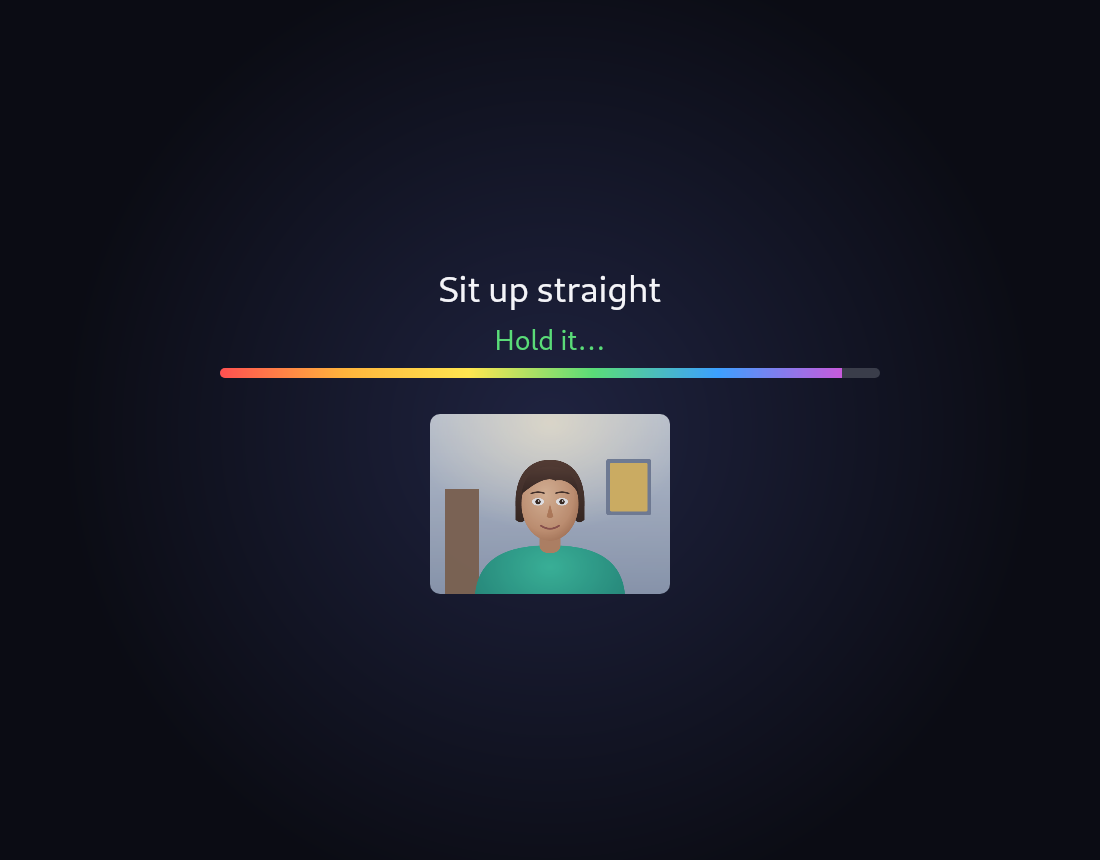
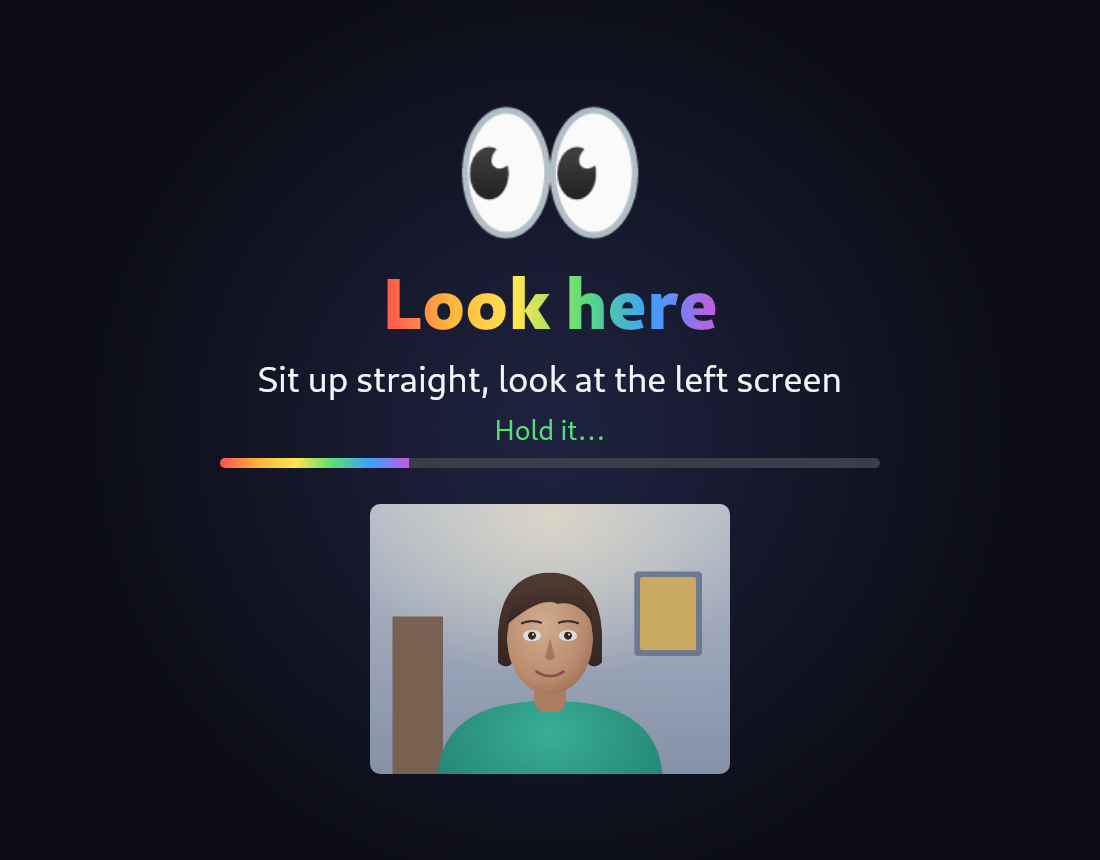
README shows the full-screen calibration game
- Calibration game section with a full-screen step pointing the drawn person at a screen
- Screenshots taken on two headless screens, so the game has a screen to point at
- Camera view in the game enlarged, and --game no longer opens the camera window

Changed region(s): [[0.1855, 0.1209, 0.8036, 0.907]]

diff --git a/crates/slouch-app/src/style.css b/crates/slouch-app/src/style.css
@@ -139,7 +139,7 @@ html, body {
 .look-detail { font-size: 28px; color: var(--good); }
 .look-progress { width: min(60vw, 720px); height: 10px; border-radius: 5px; background: #3a3d4a; overflow: hidden; }
 /* Small enough to check you're in frame without becoming the thing you look at. */
-.look-camera { position: relative; width: 240px; aspect-ratio: 4 / 3; margin-top: 24px; border-radius: 10px; overflow: hidden; opacity: 0.85; }
+.look-camera { position: relative; width: 360px; aspect-ratio: 4 / 3; margin-top: 24px; border-radius: 10px; overflow: hidden; opacity: 0.85; }
 .look-camera canvas { position: absolute; inset: 0; width: 100%; height: 100%; }
 
 .settings { padding: 20px 24px; display: flex; flex-direction: column; gap: 18px; overflow-y: auto; height: 100vh; box-sizing: border-box; }

diff --git a/crates/slouch-app/src/main.rs b/crates/slouch-app/src/main.rs
@@ -87,7 +87,7 @@ fn main() {
 
     let window = WindowBuilder::new()
         .with_title(APP_NAME)
-        .with_visible(args.show || args.game)
+        .with_visible(args.show)
         .with_inner_size(dioxus::desktop::LogicalSize::new(680.0, 600.0));
     let desktop = Config::new()
         .with_window(window)

diff --git a/README.md b/README.md
@@ -7,13 +7,9 @@ It finds your face, notes where your eyes sit and how big your face looks when y
 well, then nags when your eyes sink or your face grows as you lean towards the screen.
 Everything runs on your computer; no frame leaves it.
 
-| Sitting well | Slouching |
-|---|---|
-| ![Upright posture with the eye line on the baseline](docs/screenshots/good-posture.png) | ![Head sunk below the slouch line](docs/screenshots/slouching.png) |
-
-| Leaning in | Calibration game |
-|---|---|
-| ![Leaning towards the screen, with the nag notification](docs/screenshots/leaning.png) | ![A full-screen calibration step](docs/screenshots/calibration-game.png) |
+| Sitting well | Slouching | Leaning in |
+|---|---|---|
+| ![Upright posture with the eye line on the baseline](docs/screenshots/good-posture.png) | ![Head sunk below the slouch line](docs/screenshots/slouching.png) | ![Leaning towards the screen, with the nag notification](docs/screenshots/leaning.png) |
 
 The person in the screenshots is drawn, not filmed: `--demo` swaps the webcam for an illustrated
 stand-in who sits up, sinks and leans in, while detection runs on it for real.
@@ -33,6 +29,14 @@ grey when it can't see you or is paused. Its menu shows the current status and h
 - **Pause** and **Quit**.
 
 <img src="docs/screenshots/settings.png" alt="The settings window" width="480">
+
+### Calibration game
+
+Each step fills a screen: sit up looking at each of your screens in turn, then slouch, sit up,
+and lean in, with a small view of your camera to check you're in frame. Slouch then sets its
+limits halfway between how you sit and how you slouch.
+
+![A calibration step filling the left screen, telling the drawn person where to look](docs/screenshots/calibration-game.png)
 
 The baseline also follows you slowly: it catches up within minutes when you sit better than it,
 but only over half an hour when you sit worse, so gradual slouching isn't quietly accepted.
